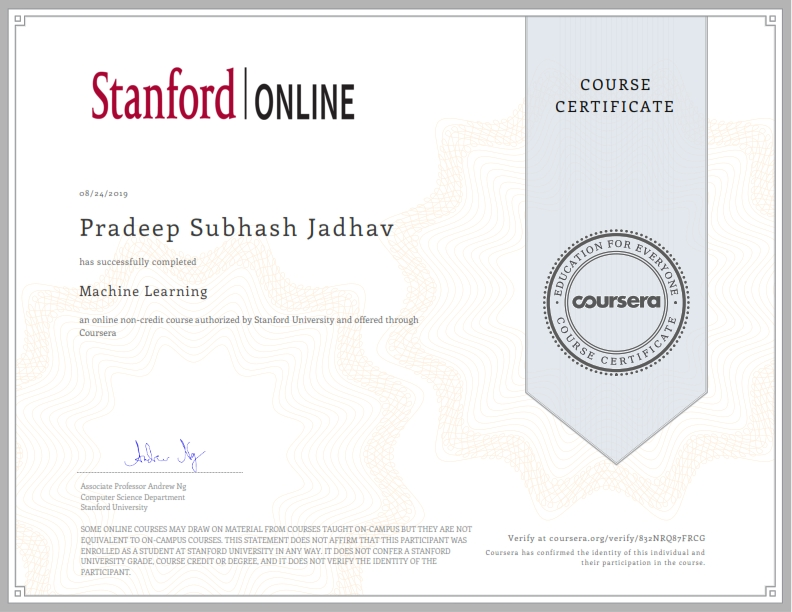
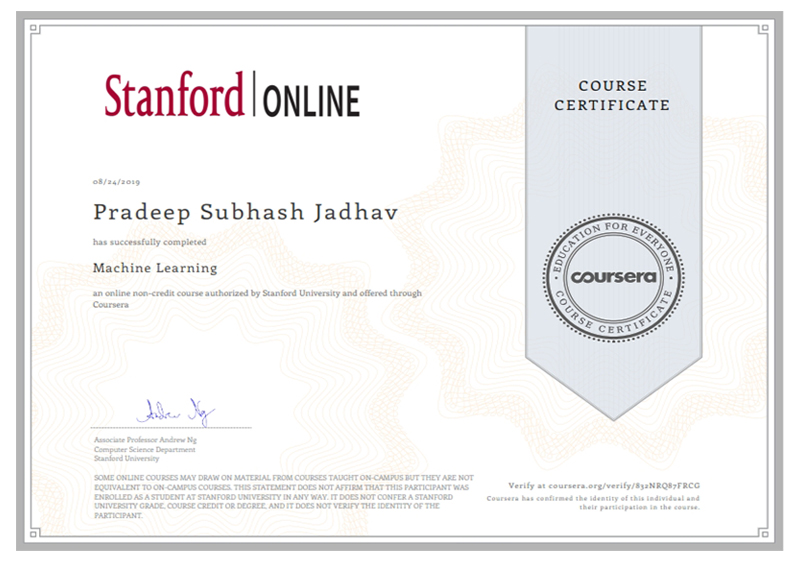
certifcate viewer UI improvements

diff --git a/js/resume/Resume.js b/js/resume/Resume.js
@@ -4,8 +4,31 @@ class Resume extends Main
     {
         super(parent);
         this.parentEl = parent; 
+        this.parentEl.onscroll = (e) => {
+            if(this.certificateViewer.isVisible())
+            {
+                e.stopPropagation();
+                e.preventDefault();
+            }
+        }
+
         this.docElement = docElement;
+        this.docElement.onscroll = (e) => {
+            if(this.certificateViewer.isVisible())
+            {
+                e.stopPropagation();
+                e.preventDefault();
+            }
+        }
+
         this.RemoveClass("box");
+
+        
+        this.blocker = new Component();
+        this.blocker.AddClass("blocker");
+
+        this.AddChild(this.blocker);
+        this.blocker.Hide();
 
         this.certificateViewer = new CertificateViewer();
         this.AddChild(this.certificateViewer);
@@ -40,7 +63,10 @@ class Resume extends Main
         if(size > 1024)
             size = 1024;
         this.certificateViewer.Resize(size, size);
-        this.certificateViewer.Place((width - this.certificateViewer.GetWidth()) / 2, this.docElement.scrollTop + 100);
+        this.certificateViewer.Place((width - this.certificateViewer.GetWidth()) / 2, 50);
+
+        this.blocker.Resize(this.parentEl.clientWidth, this.parentEl.clientHeight);
+        this.blocker.Place(0, 0);
     }
 
     MoveTo(target)
@@ -73,8 +99,15 @@ class Resume extends Main
         });
     }
 
-    OnScroll()
+    OnScroll(e)
     {
+        if(this.certificateViewer.isVisible())
+        {
+            this.docElement.scrollTop = this.scrollTop;
+            return;
+        }
+        this.scrollTop = this.docElement.scrollTop;
+
         let scrollTop = this.docElement.scrollTop;
         let sectionList = this.display.GetSectionList();
         for(let i = 0; i < sectionList.length; i++)
@@ -88,13 +121,23 @@ class Resume extends Main
 
     ShowCertificateViewer(index)
     {
-        this.certificateViewer.SetSelectedIndex(index);
+        
+        this.certificateViewer.RemoveClass("hidden");
         this.certificateViewer.Show();
+        this.certificateViewer.SetSelectedIndex(index);
+        this.blocker.Show();
+        
         this.Resize(this.parentEl.clientWidth, this.parentEl.clientHeight);
     }
 
     CloseCertificateViewer()
-    {
-        this.certificateViewer.Hide();
+    {       
+        let self = this;
+        this.certificateViewer.RemoveClass("visible");
+        this.certificateViewer.AddClass("hidden");
+        this.blocker.Hide();
+        setTimeout(function(){
+            self.certificateViewer.Hide();
+        }, 500);
     }
 }

diff --git a/css/style.css b/css/style.css
@@ -2,6 +2,14 @@ body {
     margin: auto;
     font-family: "Raleway", "sans-serif";
     cursor:default;
+    
+    -webkit-touch-callout: none; /* iOS Safari */
+    -webkit-user-select: none; /* Safari */
+    -khtml-user-select: none; /* Konqueror HTML */
+        -moz-user-select: none; /* Old versions of Firefox */
+        -ms-user-select: none; /* Internet Explorer/Edge */
+            user-select: none; /* Non-prefixed version, currently
+                                    supported by Chrome, Edge, Opera and Firefox */
 }
 
 @font-face {
@@ -15,7 +23,7 @@ body {
 
 button {
     font-size: 18px;
-    transition: 0.5s;
+    transition: 0.4s;
     background-color: #000;
     border: 2px solid #000;
     color: #fff;
@@ -34,9 +42,9 @@ button:hover {
     background-color: rgb(255, 255, 255);
     box-shadow: 0px 0px 20px rgba(0, 0, 0, 0.3);
     border-radius: 10px;
-    z-index: 100;
+    z-index: 999;
     border: 1x solid rgb(209, 209, 209);
-    transition: 0s;
+    position: fixed;
 }
 .certificateViewer .titlebar{
     display: flex;
@@ -70,10 +78,34 @@ button:hover {
     border-radius: 10px;
 }
 
+.btnClose {
+    background-color: transparent !important;
+    border: none !important;
+    font-size: 22px;
+    transition: 0.2s;
+}
+
 .btnClose:hover {
     background-color: transparent !important;
     border-color: #ff2424;
     color: #ff2424 !important;
+    transition: 0.2s;
+}
+
+.blocker {
+    z-index: 998;
+    background-color: rgb(0, 0, 0, 0.7);
+    position: fixed;
+    backdrop-filter: blur(5px);
+}
+
+.hidden {
+  opacity: 0;
+  -webkit-transition: 0.5s ease;
+  -moz-transition: 0.5s ease;
+  -ms-transition: 0.5s ease;
+  -o-transition: 0.5s ease;
+  transition: 0.5s ease;
 }
 
 /************************************************ HEADER START */
@@ -224,12 +256,10 @@ button:hover {
 .certificate {
     background-position: center center;
     background-size: cover;
-    -webkit-filter: grayscale(0);
  	transition:0.5s;
 
 }
-.certificate:hover { 
-  	-webkit-filter: grayscale(1);
+.certificate:hover {
     transform:scale(1.10);
  	transition:0.5s;
 }

diff --git a/js/CertificateViewer.js b/js/CertificateViewer.js
@@ -13,7 +13,7 @@ class CertificateViewer extends Component
         this.titleBar.AddChild(this.title);
         this.titleBar.AddClass("titlebar");
         this.btnClose = new Component("button");
-        this.btnClose.GetElement().innerHTML = "Close";
+        this.btnClose.GetElement().innerHTML = `<i class="far fa-times"></i>`;
         this.btnClose.AddClass("btnClose");
         this.btnClose.GetElement().onpointerup = (e) => {
             this.parent.CloseCertificateViewer();
@@ -50,7 +50,7 @@ class CertificateViewer extends Component
         this.titleBar.Place(0, y);
         y += this.titleBar.GetHeight() + CssConstants.PADDING5X;
 
-        this.btnClose.Resize(80, 30);
+        this.btnClose.Resize(30, 30);
         this.btnClose.Place(availableWidth - this.btnClose.GetWidth(), 10);
         
         this.title.Resize(availableWidth - this.btnClose.GetWidth(), 30);
@@ -79,6 +79,6 @@ class CertificateViewer extends Component
 
     SetSelectedIndex(index)
     {
-        this.certificateViewer.SetBackgroundImage("resources/certificates/thumbnails/thumbnail_" + (index + 1) + ".jpg");
+        this.certificateViewer.SetBackgroundImage("resources/certificates/fullres/cert_" + (index + 1) + ".jpg");
     }
 }

diff --git a/index.html b/index.html
@@ -26,7 +26,7 @@
             {
                 Resume = new Resume(document.getElementById("container"), document.documentElement);
                 document.onscroll = (e) => {
-                    Resume.OnScroll();
+                    Resume.OnScroll(e);
                 }
             }
         </script>
